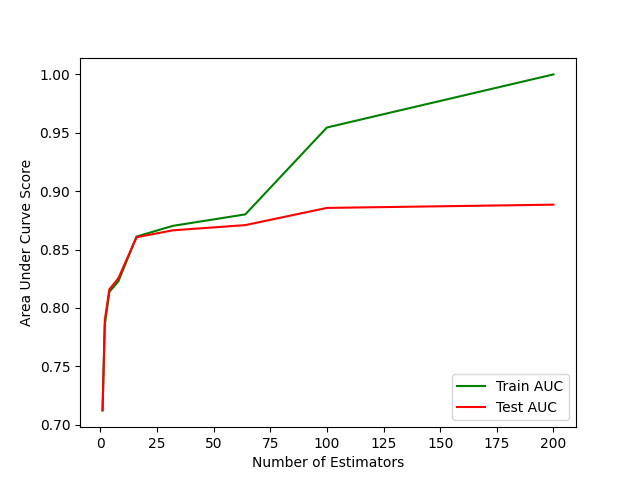
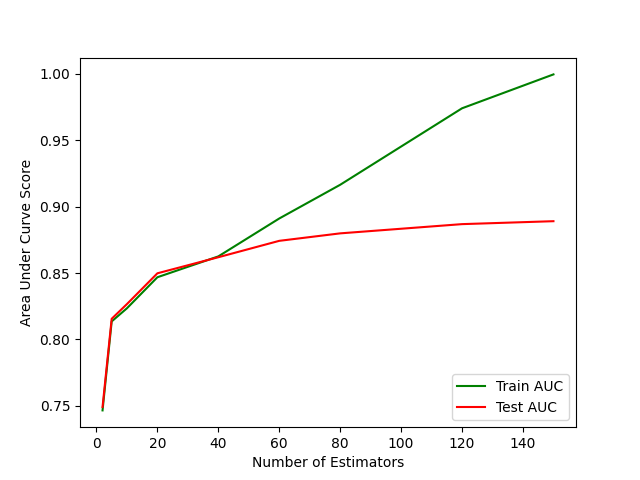
updated parameters for random forest

diff --git a/CODE/Random_Forrest.py b/CODE/Random_Forrest.py
@@ -21,13 +21,58 @@ import joblib
 import plotly.express as px
 
 
+def compare_rf_plot(num_estimators, train_scores, test_scores):
+    """
+    This function creates a plot to visualize the performance of the RandomForestClassifier model with different hyperparameter configurations.
+    It takes as input the number of estimators, train scores, and test scores, and generates a plot showing the Area Under the Curve (AUC) scores for both the train and test datasets.
+    The plot is saved as an image in the 'EVALUATIONS' directory.
+    """
+    plt.plot(num_estimators, train_scores, 'g', label="Train AUC")
+    plt.plot(num_estimators, test_scores, 'r', label="Test AUC")
+    plt.legend(loc='lower right')
+    plt.ylabel('Area Under Curve Score')
+    plt.xlabel('Number of Estimators')
+    plt.savefig(f'{os.getcwd()}/EVALUATIONS/RF_auc_scores.png')
+    plt.show()
+
+def feature_importance_plot(importance_df):
+    """
+    This function creates a bar plot to visualize the feature importance of a model, given a DataFrame with feature names and their corresponding Gini-importance values.
+    The plot displays the importance of each feature on the y-axis and the feature names on the x-axis.
+    The plot is saved as an image in the 'EVALUATIONS' directory.
+    """
+    sns.set(style="darkgrid", color_codes=True, font_scale=2)
+    fig, ax = plt.subplots()
+    fig.set_size_inches(50, 25)
+    sns.barplot(x=importance_df['Gini-Importance'], y=importance_df['Feature_Name'], data=importance_df, color='magenta')
+    plt.xlabel('Importance', fontsize=18)
+    plt.ylabel('Feature_Name', fontsize=18)
+    plt.title('Feature Importance', fontsize=22, weight='bold')
+    plt.savefig(f'{os.getcwd()}/EVALUATIONS/RF_feature_importance.png')
+    plt.show()
+
 # perform undersampling
 def train_rf(training_features, testing_features, training_labels, testing_labels, feature_name_list, type="rf"):
+    """
+    This function trains a RandomForestClassifier model with the given training features and labels. If a saved model already exists, it loads the model from disk.
+    The function evaluates the model using the testing features and labels, and returns the feature importances.
+    
+    Parameters:
+    training_features (array-like): The training dataset features.
+    testing_features (array-like): The testing dataset features.
+    training_labels (array-like): The training dataset labels.
+    testing_labels (array-like): The testing dataset labels.
+    feature_name_list (list): A list of feature names for the dataset.
+    type (str, optional): A string representing the model type. Default is "rf" (Random Forest).
+    
+    Returns:
+    DataFrame: A DataFrame containing the feature importances.
+    """    
     project_directory = os.getcwd()
     rf_model_file_path = os.path.join(project_directory, 'CODE', 'models', 'rf_v1.joblib')
     
     def create_rf_classifier():
-        rf_classifier = RandomForestClassifier(n_estimators=64, max_depth=10)
+        rf_classifier = RandomForestClassifier(n_estimators=56, max_depth=10)
         rf_classifier.fit(training_features, training_labels)
         return rf_classifier
     
@@ -44,26 +89,35 @@ def train_rf(training_features, testing_features, training_labels, testing_label
     return feature_importance(rf_classifier_model, feature_name_list)
 
 def feature_importance(trained_model, feature_names):
+    """
+    This function calculates the feature importances for a trained model and generates a bar plot of the feature importances.
+    The function also returns a list of the top 10 features with the highest importance.
+    
+    Parameters:
+    trained_model (fitted model object): A trained model object (e.g., RandomForestClassifier).
+    feature_names (list): A list of feature names for the dataset.
+    
+    Returns:
+    list: A list containing the top 10 features with the highest Gini-importance.
+    """
     feature_importance_pairs = list(zip(feature_names, trained_model.feature_importances_))
     sorted_feature_importance = sorted(feature_importance_pairs, key=lambda x: x[1], reverse=True)
     
     importance_df = pd.DataFrame(sorted_feature_importance, columns=['Feature_Name', 'Gini-Importance'])
-    
-    sns.set(font_scale=5)
-    sns.set(style="darkgrid", color_codes=True, font_scale=1.7)
-    fig, ax = plt.subplots()
-    fig.set_size_inches(30, 15)
-    sns.barplot(x=importance_df['Gini-Importance'], y=importance_df['Feature_Name'], data=importance_df, color='blue')
-    plt.xlabel('Importance', fontsize=25, weight='bold')
-    plt.ylabel('Feature_Name', fontsize=25, weight='bold')
-    plt.title('Feature Importance', fontsize=25, weight='bold')
-    plt.savefig(f'{os.getcwd()}/EVALUATIONS/RF_feature_importance.png')
-    plt.show()
+    feature_importance_plot(importance_df)
 
     top_features = [importance_df['Feature_Name'][i] for i in range(10)]
     return top_features
 
 def pca_visualization(input_data, target_labels):
+    """
+    This function applies Principal Component Analysis (PCA) to reduce the input data to three dimensions and creates a 3D scatter plot of the transformed data.
+    The plot is colored based on the target labels and saved as an image in the 'EVALUATIONS' directory.
+    
+    Parameters:
+    input_data (array-like): The input dataset to be transformed using PCA.
+    target_labels (array-like): The target labels corresponding to the input dataset.
+    """
     pca_reducer = PCA(n_components=3)
     transformed_data = pca_reducer.fit_transform(input_data)
     df_transformed_data = pd.DataFrame(transformed_data, columns=['PC1', 'PC2', 'PC3'])
@@ -74,8 +128,19 @@ def pca_visualization(input_data, target_labels):
     fig.show()
 
 def compare_rf(x_train_data, y_train_data, x_test_data, y_test_data):
-    num_estimators = [1, 2, 4, 8, 16, 32, 64, 100, 200]
-    max_tree_depths = [1, 2, 3, 4, 8, 9, 10, 16, 32]
+    """
+    This function trains a RandomForestClassifier model with different hyperparameter configurations and compares their performance.
+    The hyperparameters used are the number of estimators and maximum tree depth, and the performance is evaluated using Area Under the Curve (AUC) scores.
+    The function calls 'compare_rf_plot' to generate a plot of the AUC scores for the different hyperparameter configurations.
+    
+    Parameters:
+    x_train_data (array-like): The training dataset features.
+    y_train_data (array-like): The training dataset labels.
+    x_test_data (array-like): The testing dataset features.
+    y_test_data (array-like): The testing dataset labels.
+    """
+    num_estimators = [2, 5, 10, 20, 40, 60, 80, 120, 150]
+    max_tree_depths = [1, 3, 4, 6, 8, 11, 13, 18, 25]
     train_scores = []
     test_scores = []
 
@@ -92,10 +157,4 @@ def compare_rf(x_train_data, y_train_data, x_test_data, y_test_data):
         train_scores.append(train_auc)
         test_scores.append(test_auc)
 
-    plt.plot(num_estimators, train_scores, 'g', label="Train AUC")
-    plt.plot(num_estimators, test_scores, 'r', label="Test AUC")
-    plt.legend(loc='lower right')
-    plt.ylabel('Area Under Curve Score')
-    plt.xlabel('Number of Estimators')
-    plt.savefig(f'{os.getcwd()}/EVALUATIONS/RF_auc_scores.png')
-    plt.show()
+    compare_rf_plot(num_estimators, train_scores, test_scores)
